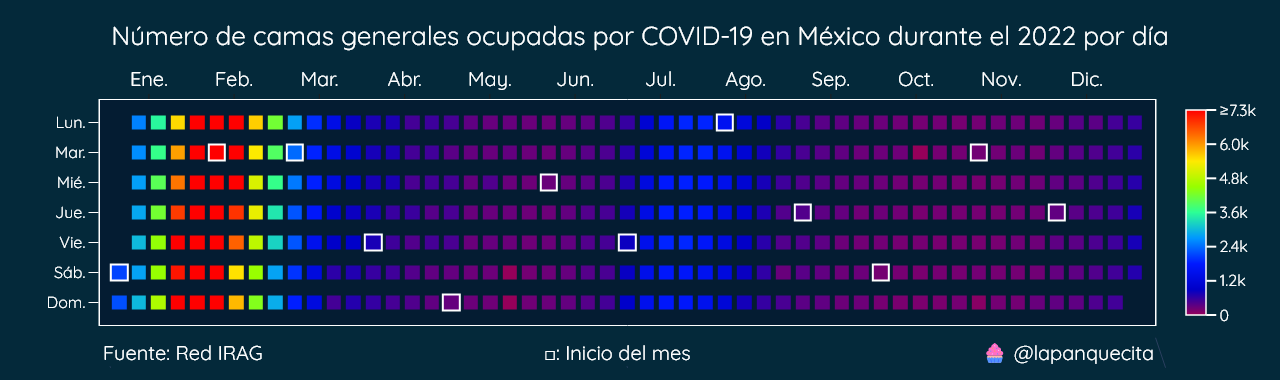
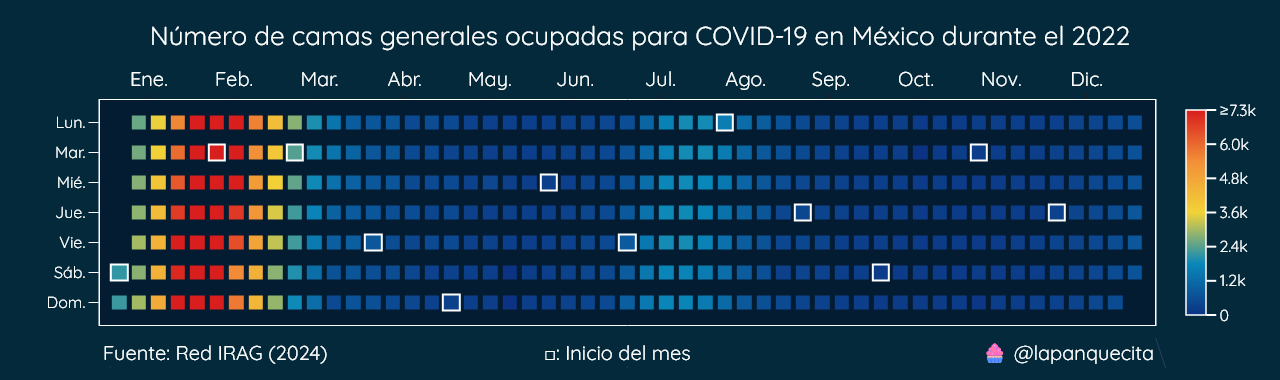
Add files via upload

Changed region(s): [[0.0625, 0.2895, 0.9688, 0.8395], [0.0938, 0.0579, 0.9062, 0.1447], [0.2188, 0.8974, 0.25, 0.9553]]

diff --git a/plotter.py b/plotter.py
@@ -12,8 +12,7 @@ def area_chart():
     Esta función grafica una simple gráfica de área.
     """
 
-    df = pd.read_csv(
-        "./data.csv", parse_dates=["isodate"], index_col="isodate")
+    df = pd.read_csv("./data.csv", parse_dates=["isodate"], index_col="isodate")
 
     # Remuestreado con la media semanal.
     # Se libre de filtrar por fecha o cambiar el periodo.
@@ -28,7 +27,8 @@ def area_chart():
             mode="lines",
             line_color="#FEC260",
             line_width=5,
-            fill="tozeroy")
+            fill="tozeroy",
+        )
     )
 
     fig.update_xaxes(
@@ -43,7 +43,7 @@ def area_chart():
         gridwidth=0.5,
         showline=True,
         mirror=True,
-        nticks=20
+        nticks=20,
     )
 
     fig.update_yaxes(
@@ -57,7 +57,7 @@ def area_chart():
         gridwidth=0.5,
         showline=True,
         mirror=True,
-        nticks=17
+        nticks=17,
     )
 
     fig.update_layout(
@@ -78,7 +78,7 @@ def area_chart():
         margin_b=0,
         title_font_size=36,
         plot_bgcolor="#2A0944",
-        paper_bgcolor="#3B185F"
+        paper_bgcolor="#3B185F",
     )
 
     fig.write_image("./1.png")
@@ -89,7 +89,7 @@ def crear_calendarios():
     Esta función creará un calendario para cada año.
     """
 
-    for año in [2020, 2021, 2022, 2023]:
+    for año in [2020, 2021, 2022, 2023, 2024]:
         crear_calendario(año)
 
 
@@ -100,11 +100,7 @@ def crear_calendario(year):
     """
 
     # Cargamos el dataset y especificamos el campo 'isodate' como nuestro índice.
-    df = pd.read_csv(
-        "./data.csv",
-        parse_dates=["isodate"],
-        index_col="isodate"
-    )
+    df = pd.read_csv("./data.csv", parse_dates=["isodate"], index_col="isodate")
 
     # Solo seleccionamos los valores del año específicado.
     df = df[df.index.year == year]
@@ -112,8 +108,10 @@ def crear_calendario(year):
     # Creamos un esqueleto con todos los días del año especificado.
     # Después agregamos la columna de hospitalizados de nuestro DataFrame anterior.
     # Para los días sin datos esto nos dará valores NaN.
-    final = pd.DataFrame(index=pd.date_range(
-        f"{year}-01-01", f"{year}-12-31", freq="d"), data={"hospitalizados": df["hospitalizados"]})
+    final = pd.DataFrame(
+        index=pd.date_range(f"{year}-01-01", f"{year}-12-31", freq="d"),
+        data={"hospitalizados": df["hospitalizados"]},
+    )
 
     # Opcional: rellenar valores NaN con 0.
     final.fillna(0, inplace=True)
@@ -129,7 +127,7 @@ def crear_calendario(year):
     # esto con el propósito de poder cortar la lista anterior.
     pad = final.index[0].dayofweek
 
-    final["semana"] = numeros_de_esmanas[pad:len(final) + pad]
+    final["semana"] = numeros_de_esmanas[pad : len(final) + pad]
 
     final["diadelasemana"] = final.index.dayofweek
 
@@ -138,15 +136,31 @@ def crear_calendario(year):
 
     # Utilizado para nuestro eje horizontal.
     meses_etiquetas = [
-        "Ene.", "Feb.", "Mar.", "Abr.",
-        "May.", "Jun.", "Jul.", "Ago.",
-        "Sep.", "Oct.", "Nov.", "Dic."
+        "Ene.",
+        "Feb.",
+        "Mar.",
+        "Abr.",
+        "May.",
+        "Jun.",
+        "Jul.",
+        "Ago.",
+        "Sep.",
+        "Oct.",
+        "Nov.",
+        "Dic.",
     ]
     meses_marcas = np.linspace(1.5, 49.5, 12)
 
     # Utilizado para nuestro eje vertical.
-    days_ticks = {0: "Lun.", 1: "Mar.", 2: "Mié.",
-                  3: "Jue.", 4: "Vie.", 5: "Sáb.", 6: "Dom."}
+    days_ticks = {
+        0: "Lun.",
+        1: "Mar.",
+        2: "Mié.",
+        3: "Jue.",
+        4: "Vie.",
+        5: "Sáb.",
+        6: "Dom.",
+    }
 
     # Creamos las marcas para nuestra escala lateral.
     valor_min = final["hospitalizados"].min()
@@ -176,8 +190,7 @@ def crear_calendario(year):
             z=final["borde"],
             xgap=1,
             ygap=12,
-            colorscale=["hsla(0, 100%, 100%, 0.0)",
-                        "hsla(0, 100%, 100%, 1.0)"],
+            colorscale=["hsla(0, 100%, 100%, 0.0)", "hsla(0, 100%, 100%, 1.0)"],
             showscale=False,
         )
     )
@@ -192,21 +205,21 @@ def crear_calendario(year):
             z=final["hospitalizados"],
             xgap=5,
             ygap=16,
-            colorscale="rainbow",
+            colorscale="portland",
             zmin=valor_min,
             zmax=valor_max,
-            colorbar={
-                "tickvals": marcas_valores,
-                "ticktext": marcas_textos,
-                "ticks": "outside",
-                "outlinewidth": 1.5,
-                "thickness": 20,
-                "outlinecolor": "#FFFFFF",
-                "tickwidth": 2,
-                "tickcolor": "#FFFFFF",
-                "ticklen": 10,
-                "tickfont_size": 16,
-            }
+            colorbar=dict(
+                tickvals=marcas_valores,
+                ticktext=marcas_textos,
+                ticks="outside",
+                outlinewidth=1.5,
+                thickness=20,
+                outlinecolor="#FFFFFF",
+                tickwidth=2,
+                tickcolor="#FFFFFF",
+                ticklen=10,
+                tickfont_size=16,
+            ),
         )
     )
 
@@ -250,7 +263,7 @@ def crear_calendario(year):
         font_family="Quicksand",
         font_color="#FFFFFF",
         font_size=20,
-        title_text=f"Número de camas generales ocupadas por COVID-19 en México durante el {year} por día",
+        title_text=f"Número de camas generales ocupadas para COVID-19 en México durante el {year}",
         title_x=0.5,
         title_y=0.93,
         margin_t=100,
@@ -268,7 +281,7 @@ def crear_calendario(year):
                 yref="paper",
                 xanchor="left",
                 yanchor="top",
-                text="Fuente: Red IRAG"
+                text="Fuente: Red IRAG (2024)",
             ),
             dict(
                 x=0.5,
@@ -277,7 +290,7 @@ def crear_calendario(year):
                 yref="paper",
                 xanchor="center",
                 yanchor="top",
-                text="□: Inicio del mes"
+                text="□: Inicio del mes",
             ),
             dict(
                 x=1.01,
@@ -286,15 +299,14 @@ def crear_calendario(year):
                 yref="paper",
                 xanchor="right",
                 yanchor="top",
-                text="🧁 @lapanquecita"
-            )
-        ]
+                text="🧁 @lapanquecita",
+            ),
+        ],
     )
 
     fig.write_image(f"./{year}.png")
 
 
 if __name__ == "__main__":
-
-    area_chart()
+    # area_chart()
     crear_calendarios()

diff --git a/README.md b/README.md
@@ -24,6 +24,8 @@ Con este archivo CSV se pueden generar gráficas como las siguientes.
 
 ![Imagen 2023](./imgs/2023.png)
 
+![Imagen 2024](./imgs/2024.png)
+
 ## Contenido
 
 * scraper.py: Programa para obtener los datos de ocupaci;on de camgas generales en México y guardarlos en CSV.
